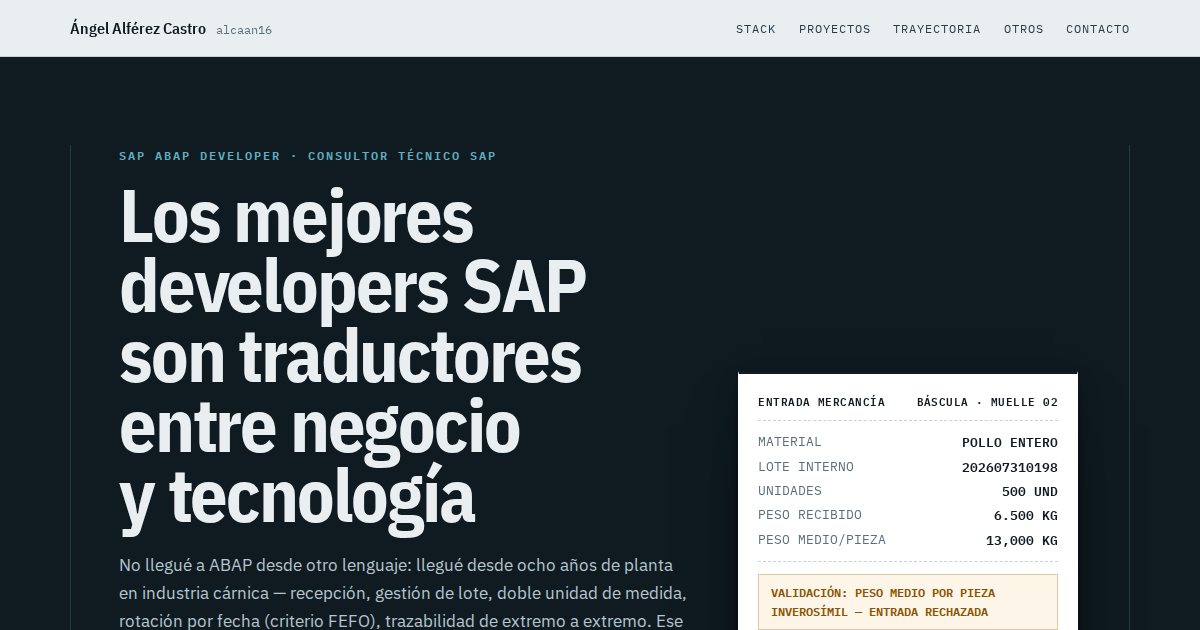
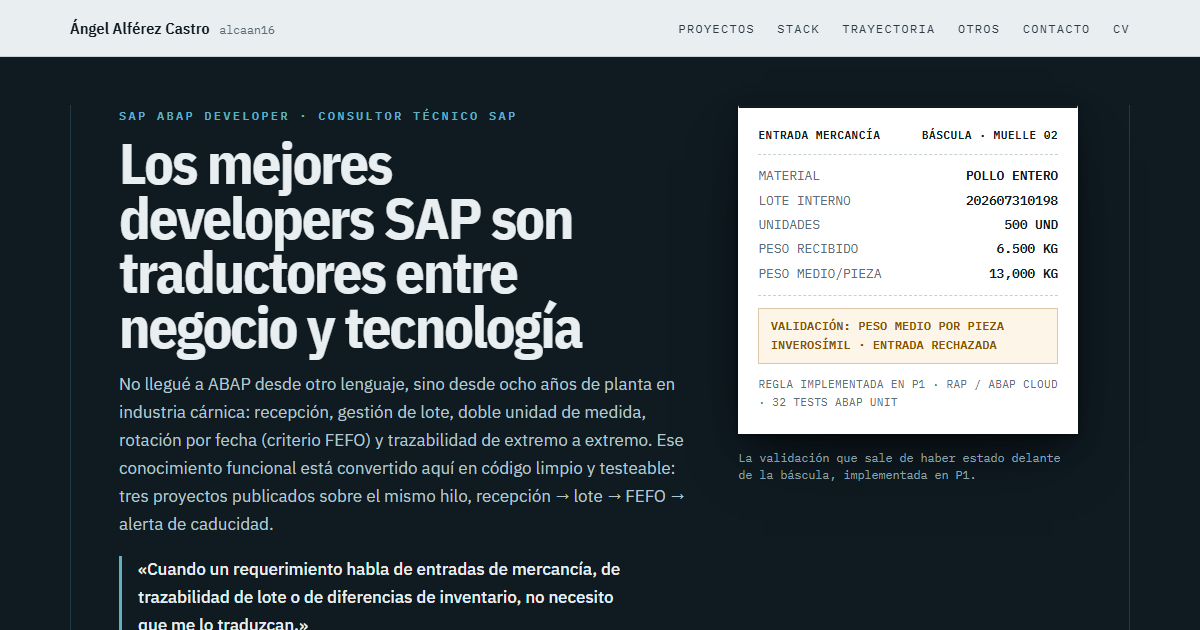
Imagen social regenerada y script para repetirla
- og.png: captura nueva del hero definitivo, sin rayas y con el ticket completo
- scripts/og.mjs: captura a 1200x630 con Edge o Chrome sin interfaz
- README: sección con el comando
- Comillas angulares en los alt de P1
- Fuera las etiquetas de versión (v1, v2) de los comentarios CSS

diff --git a/src/data/proyectos.ts b/src/data/proyectos.ts
@@ -93,7 +93,7 @@ export const p1 = {
     },
     {
       src: p1AccionOff,
-      alt: 'Botón "Registrar entrada" deshabilitado por desviación pendiente',
+      alt: 'Botón «Registrar entrada» deshabilitado por desviación pendiente',
       caption: '05 · Acción deshabilitada: desviación pendiente de resolver',
       ancha: true,
     },
@@ -104,7 +104,7 @@ export const p1 = {
     },
     {
       src: p1AccionOn,
-      alt: 'Botón "Registrar entrada" habilitado tras resolver la desviación',
+      alt: 'Botón «Registrar entrada» habilitado tras resolver la desviación',
       caption: '07 · Acción habilitada tras resolver la desviación',
       ancha: true,
     },

diff --git a/src/styles/tokens.css b/src/styles/tokens.css
@@ -1,7 +1,7 @@
-/* Sistema de diseño «muelle de descarga» v2 - papel claro + hero en banda oscura.
+/* Sistema de diseño «muelle de descarga»: papel claro + hero en banda oscura.
    Tokens base + variantes on-dark. */
 :root {
-  /* Paleta v1 - superficies claras */
+  /* Paleta: superficies claras */
   --ink: #0f1a21; /* negro azulado casi puro - textos y bandas oscuras */
   --ink-soft: #2a3b46; /* variante suave para párrafos */
   --muted: #5c6e79; /* gris azulado - etiquetas, pies */

diff --git a/src/styles/layout.css b/src/styles/layout.css
@@ -17,7 +17,7 @@
   background: var(--paper-deep);
 }
 
-/* Banda oscura - v2: solo el hero (y los bloques de límites como componente) */
+/* Banda oscura: solo el hero (y los bloques de límites como componente) */
 .section--dark {
   background: var(--ink);
   color: #b6c6ce;

diff --git a/src/styles/base.css b/src/styles/base.css
@@ -38,7 +38,7 @@ h4 {
   text-wrap: balance;
 }
 
-/* Titular del hero - v2: peso, tamaño y tracking; caja baja */
+/* Titular del hero: peso, tamaño y tracking; caja baja */
 h1 {
   font-weight: 700;
   font-size: clamp(2.4rem, 5.2vw, 3.6rem);

diff --git a/src/styles/components.css b/src/styles/components.css
@@ -28,7 +28,7 @@
     border-color 0.15s ease;
 }
 
-/* Primario sobre papel - relleno oscuro (v1) */
+/* Primario sobre papel - relleno oscuro */
 .btn--solid {
   background: var(--ink);
   border: 1px solid var(--ink);

diff --git a/README.md b/README.md
@@ -47,6 +47,19 @@ pnpm check     # comprobación de tipos de Astro
 ```
  
 Requiere Node ≥ 18.
+
+## Imagen social
+
+`public/og.png` es una captura del hero a 1200×630. Hay que regenerarla cuando cambie el hero:
+
+```bash
+pnpm build              # build con el hero nuevo
+node scripts/og.mjs     # captura con Edge o Chrome sin interfaz y escribe public/og.png
+pnpm build              # segundo build, para que dist/ incluya la imagen nueva
+```
+
+El script espera a que acabe la animación del ticket. Si el navegador no está en una ruta
+habitual, indícalo con la variable `BROWSER` (ruta completa al ejecutable de Edge o Chrome).
  
 ---
  
